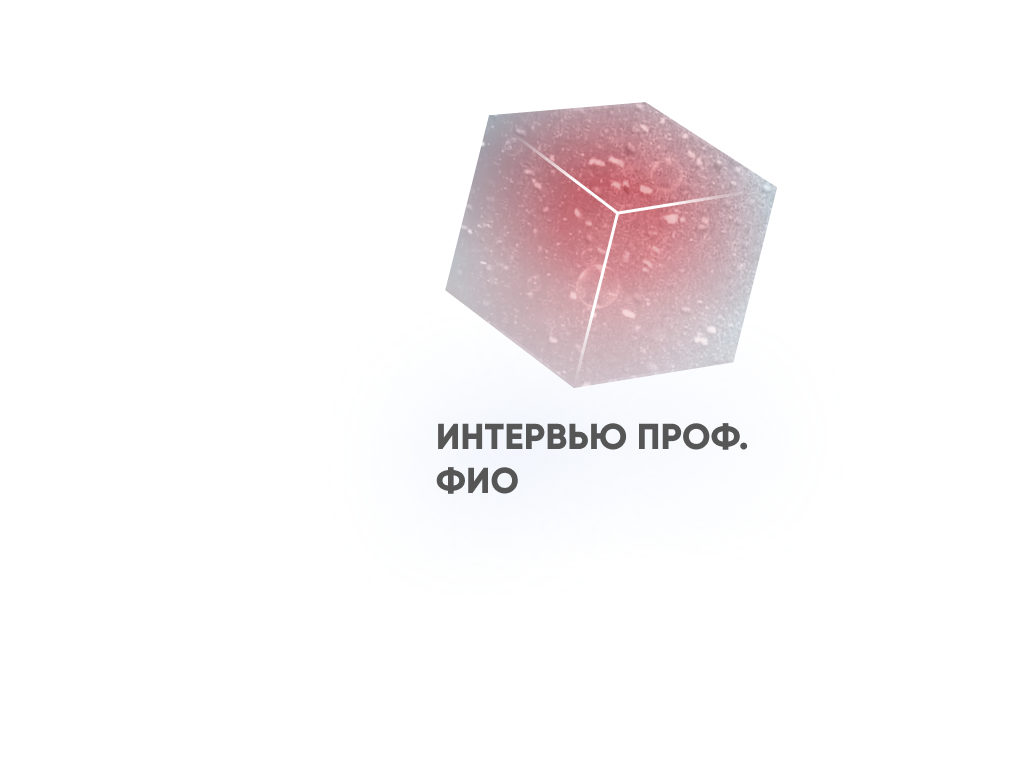
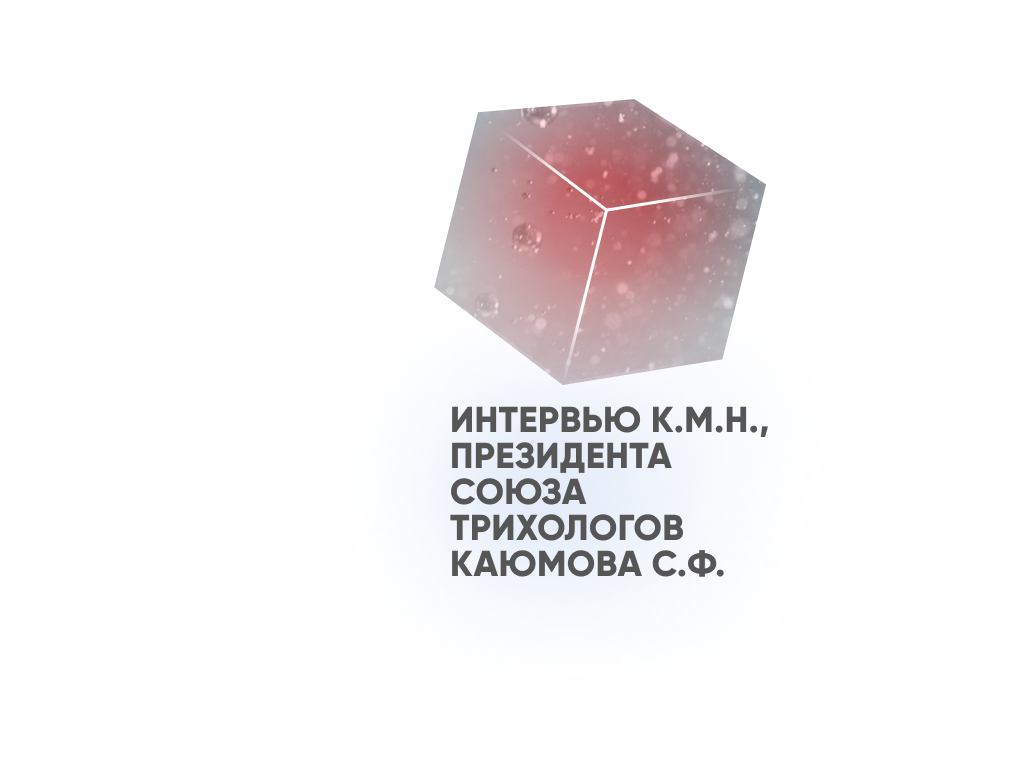
add professor names

diff --git a/tolerane/index.html b/tolerane/index.html
@@ -32,7 +32,7 @@
        		<a href="index.html" class="blue-arrow"></a>
                 <div class="movie-text">
                     <p><span>Комплексный уход для пациентов с акне при различных степенях тяжести</span></p>
-                    <p>ФИО ведущего</p>
+                    <p>Интервью д.м.н., проф. Феденко Е.С.</p>
                 </div>
        	    </nav>
             <div class="video">
@@ -66,7 +66,7 @@
             <div class="show-cube-1">
         		<div class="big-cube-1"></div>
                 <a href="#" class="plus-12"></a>
-                <h1 class="header-under-big-cube-1">интервью проф.<br>ФИО</h1>
+                <h1 class="header-under-big-cube-1">Интервью д.м.н.,<br>проф. Феденко Е.С.</h1>
         	</div>
         	<div class="show-cube-2">
                 <div class="big-cube-2"></div>

diff --git a/liftactiv/index.html b/liftactiv/index.html
@@ -98,7 +98,7 @@ $(document).ready(function() {
           <div class="abs m_pop1">
             <div class="abs x"></div>
             <p class="abs m_pop1-p1">Комплексный уход для пациентов с акне при различных степенях тяжести</p>
-            <p class="abs m_pop1-p2">ФИО ведущего</p>
+            <p class="abs m_pop1-p2">Интервью к.м.н., врача дерматовенеролога, косметолога Наумчик Г.А.</p>
             <iframe width="1024" height="575" src="https://www.youtube.com/embed/VWvGaLMxkFI" frameborder="0" allow="accelerometer; autoplay; clipboard-write; encrypted-media; gyroscope; picture-in-picture" allowfullscreen></iframe>
           </div>
           <div class="abs m_pop2">

diff --git a/dercos/index.html b/dercos/index.html
@@ -97,7 +97,7 @@ $(document).ready(function() {
           <div class="abs m_pop1">
             <div class="abs x"></div>
             <p class="abs m_pop1-p1">Комплексный уход для пациентов с акне при различных степенях тяжести</p>
-            <p class="abs m_pop1-p2">ФИО ведущего</p>
+            <p class="abs m_pop1-p2">Интервью к.м.н., президента союза трихологов Каюмова С.Ф.</p>
             <iframe width="1024" height="575" src="https://www.youtube.com/embed/sXJOcwYS7rQ" frameborder="0" allow="accelerometer; autoplay; clipboard-write; encrypted-media; gyroscope; picture-in-picture" allowfullscreen></iframe>
           </div>
           <div class="abs m_pop2">

diff --git a/effaclar/index.html b/effaclar/index.html
@@ -107,7 +107,7 @@ $(document).ready(function() {
           <div class="abs m_pop1">
             <div class="abs x"></div>
             <p class="abs m_pop1-p1">Комплексный уход для пациентов с акне при различных степенях тяжести</p>
-            <p class="abs m_pop1-p2">ФИО ведущего</p>
+            <p class="abs m_pop1-p2">Интервью д.м.н., проф. Хлебниковой А.Н.</p>
             <iframe width="1024" height="575" src="https://www.youtube.com/embed/BUjCKjhwSC8" frameborder="0" allow="accelerometer; autoplay; clipboard-write; encrypted-media; gyroscope; picture-in-picture" allowfullscreen></iframe>
           </div>
           <div class="abs m_pop2">

diff --git a/lipikar/index.html b/lipikar/index.html
@@ -102,7 +102,7 @@ $(document).ready(function() {
           <div class="abs m_pop1">
             <div class="abs x"></div>
             <p class="abs m_pop1-p1">Комплексный уход для пациентов с акне при различных степенях тяжести</p>
-            <p class="abs m_pop1-p2">ФИО ведущего</p>
+            <p class="abs m_pop1-p2">Интервью д.м.н., проф. Заславского Д.В.</p>
             <iframe width="1024" height="575" src="https://www.youtube.com/embed/2l9aqHK6jkw" frameborder="0" allow="accelerometer; autoplay; clipboard-write; encrypted-media; gyroscope; picture-in-picture" allowfullscreen></iframe>
           </div>
           <div class="abs m_pop2">

diff --git a/cerave/index.html b/cerave/index.html
@@ -99,7 +99,7 @@ $(document).ready(function() {
           <div class="abs m_pop1">
             <div class="abs x"></div>
             <p class="abs m_pop1-p1">Комплексный уход для пациентов с акне при различных степенях тяжести</p>
-            <p class="abs m_pop1-p2">ФИО ведущего</p>
+            <p class="abs m_pop1-p2">Интервью д.м.н., проф. Тамразовой О.Б.</p>
             <iframe width="1024" height="575" src="https://www.youtube.com/embed/Q__I2ijSyY0" frameborder="0" allow="accelerometer; autoplay; clipboard-write; encrypted-media; gyroscope; picture-in-picture" allowfullscreen></iframe>
           </div>
           <div class="abs m_pop2">

diff --git a/vitamine/index.html b/vitamine/index.html
@@ -92,7 +92,7 @@ $(document).ready(function() {
           <div class="abs m_pop1">
             <div class="abs x"></div>
             <p class="abs m_pop1-p1">Комплексный уход для пациентов с акне при различных степенях тяжести</p>
-            <p class="abs m_pop1-p2">ФИО ведущего</p>
+            <p class="abs m_pop1-p2">Интервью д.м.н, проф. Аравийской Е.А.</p>
             <iframe width="1024" height="575" src="https://www.youtube.com/embed/CtufiZ-IhaU" frameborder="0" allow="accelerometer; autoplay; clipboard-write; encrypted-media; gyroscope; picture-in-picture" allowfullscreen></iframe>
           </div>
           <div class="abs m_pop2">

diff --git a/normaderm/index.html b/normaderm/index.html
@@ -93,7 +93,7 @@ $(document).ready(function() {
           <div class="abs m_pop1">
             <div class="abs x"></div>
             <p class="abs m_pop1-p1">Комплексный уход для пациентов с акне при различных степенях тяжести</p>
-            <p class="abs m_pop1-p2">ФИО ведущего</p>
+            <p class="abs m_pop1-p2">Интервью проф. Brigitte Dreno</p>
             <iframe width="1024" height="575" src="https://www.youtube.com/embed/D7g50_WFfbA" frameborder="0" allow="accelerometer; autoplay; clipboard-write; encrypted-media; gyroscope; picture-in-picture" allowfullscreen></iframe>
           </div>
           <div class="abs m_pop2">

diff --git a/vitamine/css/stylev3.css b/vitamine/css/stylev3.css
@@ -373,7 +373,7 @@ html {
 .sl2 .ovec a { background-image: url(../images/02/o2.svg); }
 
 .sl2 .vec1 a {
-  top: 192px;
+  top: 167px;
   left: 589px;
   width: 40px;
   height: 40px;

diff --git a/tolerane/css/main.css b/tolerane/css/main.css
@@ -440,6 +440,7 @@ a{
 	margin-left: 440px;
 	margin-top: 416px;
 	letter-spacing: 0.01em;
+	white-space: nowrap;
 	color: #565656;
 	font-size: 28px;
 	font-weight: 600;

diff --git a/liftactiv/css/stylev3.css b/liftactiv/css/stylev3.css
@@ -393,8 +393,8 @@ html {
 }
 
 .sl2 .vec1 a {
-  top: 193px;
-  left: 591px;
+  top: 159px;
+  left: 614px;
   width: 40px;
   height: 40px;
   border-radius: 50%;

diff --git a/lipikar/css/stylev3.css b/lipikar/css/stylev3.css
@@ -430,8 +430,8 @@ html {
 }
 
 .sl2 .vec1 a {
-  top: 225px;
-  left: 599px;
+  top: 195px;
+  left: 587px;
   width: 40px;
   height: 40px;
   border-radius: 50%;
